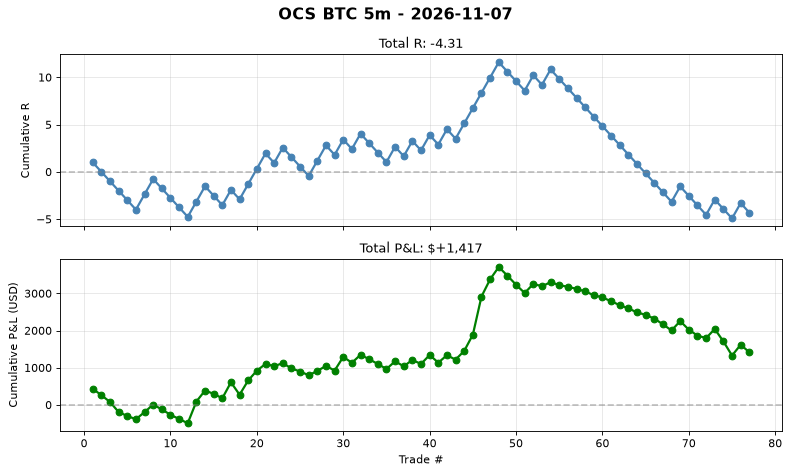
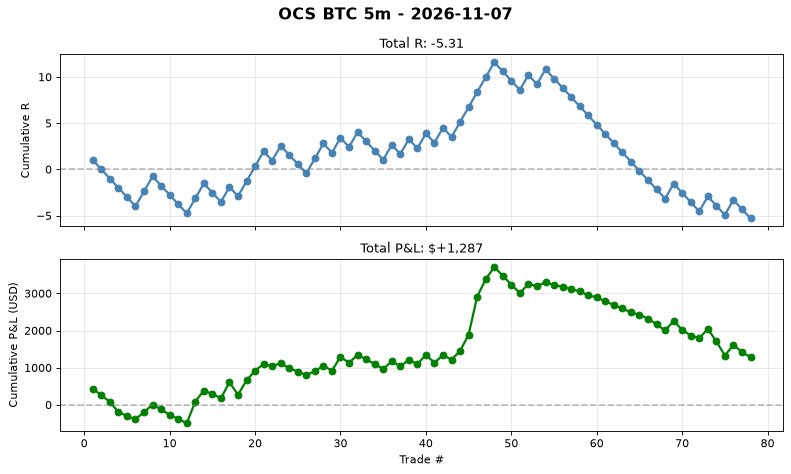
auto(ocs-btc): signal log 2026-11-06T21:57 trades=78

diff --git a/automation/reports/ocs_btc_5m/daily/2026-11-07.md b/automation/reports/ocs_btc_5m/daily/2026-11-07.md
@@ -2,4 +2,4 @@
 
 **No trades today.**
 
-Cumulative stats: 77 trades | WR 36.4% | avg R -0.056
+Cumulative stats: 78 trades | WR 35.9% | avg R -0.068
